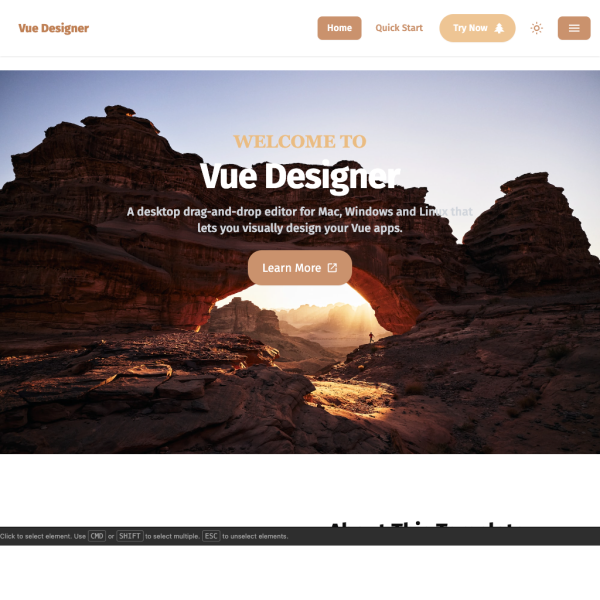
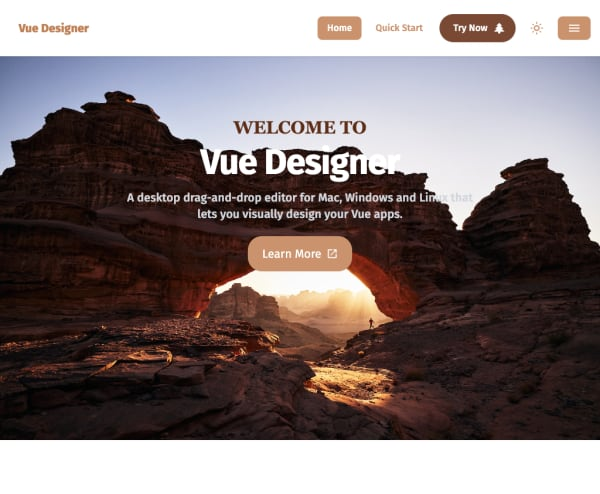
Minor refactors & theme updates

diff --git a/components/NavBar.vue b/components/NavBar.vue
@@ -24,14 +24,14 @@
             <NavBarDesktopTabs
               :navlinks="desktopNavTabs"
               :current-path="currentPath"
-              class="h-full"
+              class="hidden sm:flex sm:ml-6"
             />
           </div>
           <DarkModeSwitch />
           <div class="-mr-2 items-center relative">
             <NavBarMobileMenuButton v-if="mobileNavTabs.length" />
             <NavBarMobileMenu
-              class="hidden sm:block absolute right-0 mt-4"
+              class="hidden sm:flex sm:justify-end absolute right-0 mt-4"
               :navlinks="mobileNavTabs"
               :current-path="currentPath"
             />

diff --git a/pages/quick-start/[...slug].vue b/pages/quick-start/[...slug].vue
@@ -24,11 +24,12 @@
           <h6 class="mt-2">Github repo for this template</h6>
           <BaseButton
             size="xs"
-            class="ml-2 pg-primary-container-text"
-            color="gray"
+            class="ml-2"
+            color="secondary"
             to="https://github.com/pinegrow/pg-nuxt-tailwindcss"
             target="_blank"
-            ><span>Click here</span>
+          >
+            <span>Click here</span>
           </BaseButton>
         </div>
         <slot />

diff --git a/components/NavBarDesktopTabs.vue b/components/NavBarDesktopTabs.vue
@@ -15,7 +15,7 @@
   })
 </script>
 <template>
-  <div class="h-full hidden items-center md:flex md:ml-6">
+  <div class="h-full items-center">
     <div class="flex h-full space-x-2">
       <BaseButton
         v-for="(navlink, index) in navlinks"
@@ -34,6 +34,7 @@
       to="https://pinegrow.com/vue-designer"
       size="xl"
       icon="mdi:pine-tree"
+      color="secondary"
       trailing
       ><span class="pl-2">Try Now</span>
     </BaseButton>

diff --git a/pages/subscribe.vue b/pages/subscribe.vue
@@ -35,9 +35,9 @@
                 />
                 <BaseButton
                   type="submit"
-                  class="ml-2 pg-primary-container-text"
+                  class="ml-2"
                   size="md"
-                  color="gray"
+                  color="secondary"
                 >
                   Sign Up
                 </BaseButton>

diff --git a/components/NavBarMobileMenu.vue b/components/NavBarMobileMenu.vue
@@ -17,7 +17,7 @@
   })
 </script>
 <template>
-  <div class="sm:flex sm:justify-end">
+  <div>
     <div
       v-if="isMobileMenuOpen"
       class="sm:min-w-[200px] rounded-lg shadow overflow-hidden pg-surface pg-on-surface-text px-4 py-5 sm:p-6"
